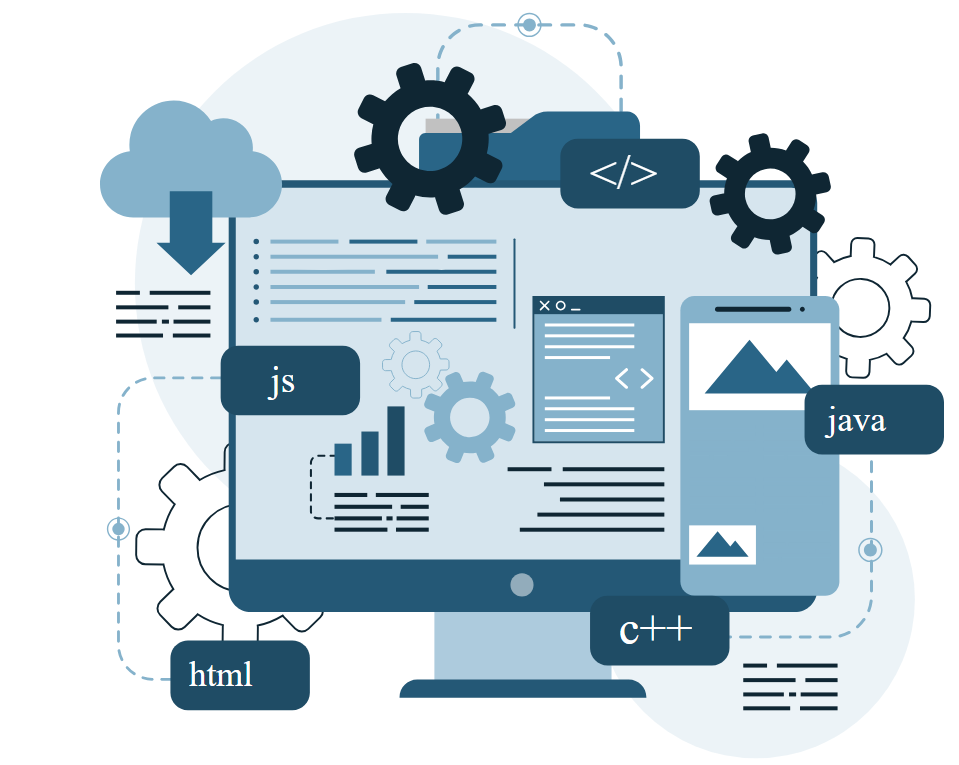
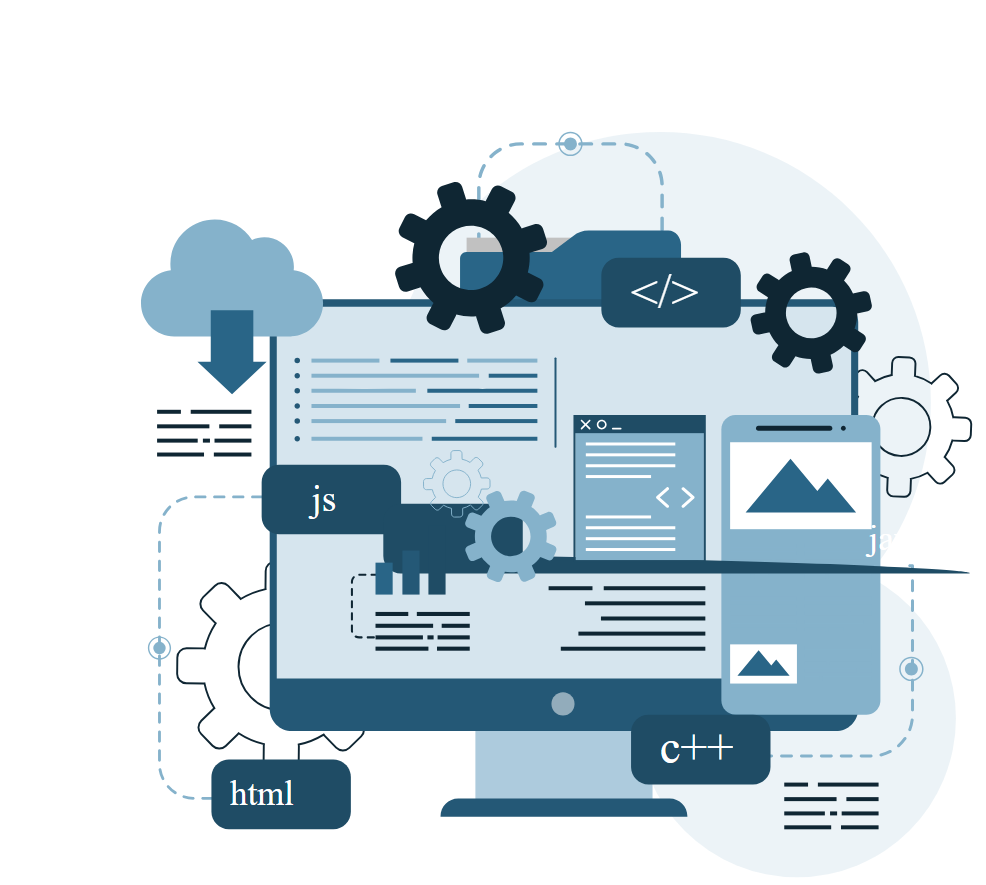
commit 4

diff --git a/README.md b/README.md
@@ -1,12 +1,11 @@
-<img src=imagem_destaque.png align="right" width=380></img>
+<img src=imagem_destaque.png align="right" x=400 width=380></img>
 <h1>Nayara Andressa</h1>
-<p align="justify">Electrical Engineering student from Jaraguá do Sul - SC, Brazil. I had my first contact with HTML and CSS editing my Tumblr page by myself when I was a pre teen. Throghout my career, I also learned a lot of different industrial programming languages, which made me fall in love for programming again and led me to want to improve my skills.
-<br>I love trying new beers and in my free time I like to read, play videogames, travel and play guitar. </p>
+<p align="justify">Electrical Engineering student from Jaraguá do Sul - SC, Brazil. I had my first contact with HTML and CSS editing my Tumblr page by myself when I was a pre teen. Throghout my career, I also learned a lot of different industrial programming languages, which made me fall in love for programming again and led me to want to improve my skills.</p>
 
 <h3>Connect with me:</h3>
 
-![Linkedin](https://img.shields.io/badge/LINKEDIN-blue?style=flat&logo=linkedin&logoColor=143244&labelColor=%23fff&color=%23fff)
-![Instagram](https://img.shields.io/badge/INSTAGRAM-blue?style=flat&logo=instagram&logoColor=143244&labelColor=%23fff&color=%23fff)
+[![Linkedin](https://img.shields.io/badge/LINKEDIN-blue?style=flat&logo=linkedin&logoColor=143244&labelColor=%23fff&color=%23fff)](https://www.linkedin.com/in/nayara-andressa-souza/)
+[![Instagram](https://img.shields.io/badge/INSTAGRAM-blue?style=flat&logo=instagram&logoColor=143244&labelColor=%23fff&color=%23fff)](https://www.instagram.com/nayarazick/)
 
 <h3>GitHub Stats:</h3>
 
